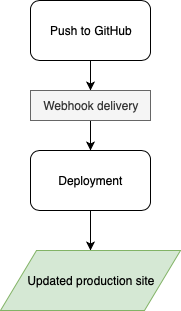
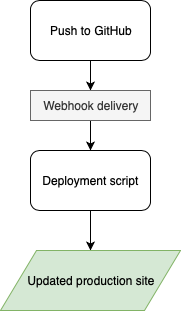
Draft of deployment search post

Changed region(s): [[0.221, 0.5498, 0.7735, 0.6077]]

diff --git a/pages/06.blog/03.deployment-search/item.md b/pages/06.blog/03.deployment-search/item.md
@@ -9,8 +9,92 @@ taxonomy:
         - Deployment
 ---
 
-![](Deployment1.png)
+In my quest to setup an automatic deployment solution for a website built with Grav, I've already established the Grav [git-sync plugin](/blog/grav-git-sync) wasn't exactly suiting my needs. I've made a lot of research since and I'm surprise to see very few solution out there, not just for Grav, but for post-commit hooks and Webhooks in general.
 
-![](Deployment2.png)
+===
 
-![](Deployment3.png)
+Basically, what I need is something that will update the files on my productions servers every time a new commit is pushed to GitHub. This sounds easy, as GitHub provides [Webhooks](https://developer.github.com/webhooks/). All we need now is a deployment script to have our deployed app on the production server. This script, in Grav's case, would simply have to do a `git pull` and `bin/grav clear-cache` operation.
+
+[center]![](Deployment1.png)[/center]
+
+The reality is you need an endpoint on your server to receive the hook. Moreover, this endpoint needs to be reachable through a public facing URL. This is where it gets difficult, because there is not a lot of documentation or "all in one" package to handle that.
+
+
+## Potential candidates
+
+The most popular result when searching for a git hook deployment solution involve [a bare git repository and `post-receive` hook](https://gist.github.com/noelboss/3fe13927025b89757f8fb12e9066f2fa) on the production server. However, while this method is the easiest to implement, it's not automatic and can't be directly called by GitHub webhook API. The only way this could be used in an automated way would be to use Travis CI to push to the production server after a successful test.
+
+Other popular results either [are 6 years old](https://github.com/mboynes/github-deploy), [offers only 1 repo for free](https://signup.deploybot.com/signup/new#pricing), [offers only a free 10 days trial](https://www.deployhq.com/pricing), [looks overly complicated](https://www.heroku.com/home) or [are just a pile of spaghetti code](https://github.com/markomarkovic/simple-php-git-deploy/blob/master/deploy.php). [One result was close](https://github.com/scriptburn/git-auto-deploy), but it contained a web accessible UI which I didn't looked too secure at first glance.
+
+Moreover, while I get offering this kind of service requires a lot of expensive resources, no webhook deployment service offers a free pricing tier for open source projects. This means there is a need for **a self hosted one click deployment solution**. Or is it?
+
+
+## Writing my own service
+
+At this point I considered creating my own deployment app. Question is, what does a good deployment app do? How does it work? And what would it look like if I wrote it? Let's make a list:
+
+- Written in PHP (faster, easier for me)
+- Easy setup via Composer, either globally or per project
+- No UI. Only frontend is the hook script at a given URL. A CLI app is perfect for added security and easier setup and usage than a PHP script
+- Requires SSH Keys, no stored password or token
+- Can be integrated to existing app via Composer, using `vendor/bin/post-receive`
+- Can manage server permissions, while being secure (can `sudo` a command if required)
+- Supports Grav, but other sites too
+- Support GitHub webhooks, but modular enough to be able to integrate other providers
+- Configuration done through flat file storage. When used inside an app, config can be stored in a `.deployment` file
+
+So there we are. A CLI app, written using Symfony marvelous [Console Component](https://symfony.com/doc/current/components/console.html), and capable of deploying your code, with a front facing URL to handle the receiving hook request.
+
+But wait, something doesn't add up. If this app can be loaded by Composer into an existing project, how can it handle the public facing URL? Even if loaded globally, this still requires additional setup. Maybe using Composer `create-project` command could be of use? Or maybe the wishlist, the very concept of a deployment script and my perception of what is required is wrong...
+
+
+## It’s a two men job
+
+The more I was thinking about this issue and the more research I did, I realized my concept of "deployment" was wrong. The concept of a _deployment script_ can't be the same thing as a _webhook endpoint_.
+
+
+
+
+
+[Github documentation](https://developer.github.com/v3/guides/delivering-deployments/#writing-your-server) point to [Sinatra](http://sinatrarb.com/), a ruby application used ot___... Unfortunaltly , Sinatra is more oriented to localhost use, not on a production server.
+
+Even if we end up using a service like Travis, we still need a robust script to handle the deployment procedure.
+
+
+<!-- Schéma ce que je cherche (avec deployer script + endpoint) -->
+[center]![](Deployment2.png)[/center]
+
+
+
+### Deployer
+
+
+
+### Webhook
+
+https://github.com/adnanh/webhook
+
+
+
+## Conclusion
+
+So ~our composer package~ Deployer + Travis / create-project (custom) / Webhook
+
+So here we have my current plan :
+
+[center]![](Deployment3.png)[/center]
+
+In the coming days I'll test out both _Deployer_ and _Webhook_ and I'll be sure to write a definitive guide once everything is setup !
+
+
+## References
+- https://developer.github.com/v3/guides/delivering-deployments/
+- https://www.sitepoint.com/deploying-from-github-to-a-server/
+- https://gist.github.com/noelboss/3fe13927025b89757f8fb12e9066f2fa
+- https://gist.github.com/oodavid/1809044
+- https://github.com/mauris/Deployer
+- https://github.com/Enrise/TravisDeployer
+- https://www.codepicky.com/php-automatic-deploy/
+- https://www.silverstripe.org/blog/making-deployment-a-piece-of-cake-with-deployer/
+- https://medium.com/@nickdenardis/zero-downtime-local-build-laravel-5-deploys-with-deployer-a152f0a1411f
+- https://webthoughts.koderhut.eu/automatic-deployment-with-deployer-b3eb39c88665

diff --git a/pages/06.blog/02.grav-git-sync/item.fr.md b/pages/06.blog/02.grav-git-sync/item.fr.md
@@ -6,6 +6,7 @@ taxonomy:
     tag:
         - GitHub
         - Grav
+        - Deployment
 ---
 
 Lors de la création de ce blog et de la mise à jours de la documentation de UserFrosting, je suis tombé sur le problème du déploiement des deux sites sur leurs serveurs de production respectifs (dans ce cas, deux VPS). Étant donné que les deux sites ont leur code source sur GitHub, l’utilisation d’un « post-receive hook » constituait le choix évident pour un déploiement automatisé. Malheureusement, il n’y a pas de méthode définitive pour gérer la requête sur le serveur de production. Les deux sites étant construits avec Grav, je suis rapidement tombé sur le [plug-in git-sync](https://github.com/trilbymedia/grav-plugin-git-sync). Après quelques tests rapides, je me suis rendu compte que ce plugin ne me serait pas utile et qu’une solution personnalisé serait mieux.

diff --git a/pages/06.blog/02.grav-git-sync/item.en.md b/pages/06.blog/02.grav-git-sync/item.en.md
@@ -6,6 +6,7 @@ taxonomy:
     tag:
         - GitHub
         - Grav
+        - Deployment
 ---
 
 While creating this blog and working on UserFrosting documentation website, I came across the issue of deploying the live site to their respective production servers (VPS). Since both sites have their source code on GitHub, using a post-receive hook seamed the obvious choice for automated deployment. Unfortunately, there’s no definitive way of handling the hook call on the server. Both sites being built with Grav, I quickly came across the [git-sync plugin](https://github.com/trilbymedia/grav-plugin-git-sync). After some quick testing, I figured out this plugin wasn’t of use to me and a custom hook would be better.
